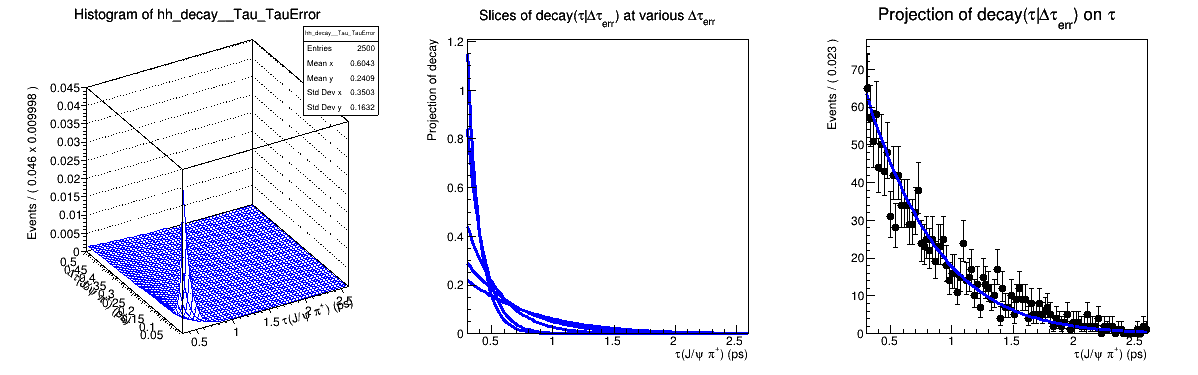
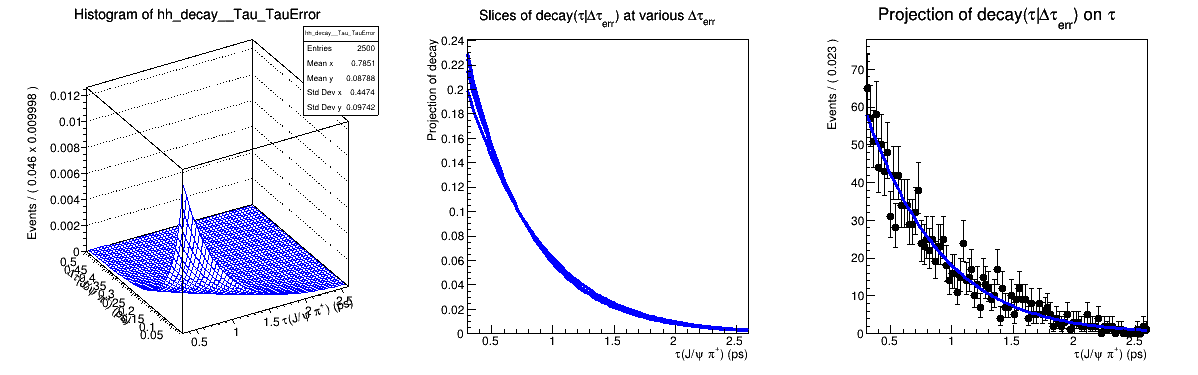
Prueba de proyecto

diff --git a/Documents/Parcial2/CC1216730080/Proyecto/condPdfTau.C b/Documents/Parcial2/CC1216730080/Proyecto/condPdfTau.C
@@ -99,7 +99,7 @@ void condPdfTau() {
     RooGaussModel gm("gm1", "gauss model scaled bt per-event error", Tau, bias, sigma, TauErr);
 
     //---------- Decay (x) gauss(tau|tauErr) --------------
-    RooRealVar tau("tau", "tau", 0.1);
+    RooRealVar tau("tau", "tau", 0.507);
     RooDecay decay_gm("decay_gm", "decay", Tau, tau, gm, RooDecay::SingleSided);
 
     //---------- Fit conditional decay --------------
